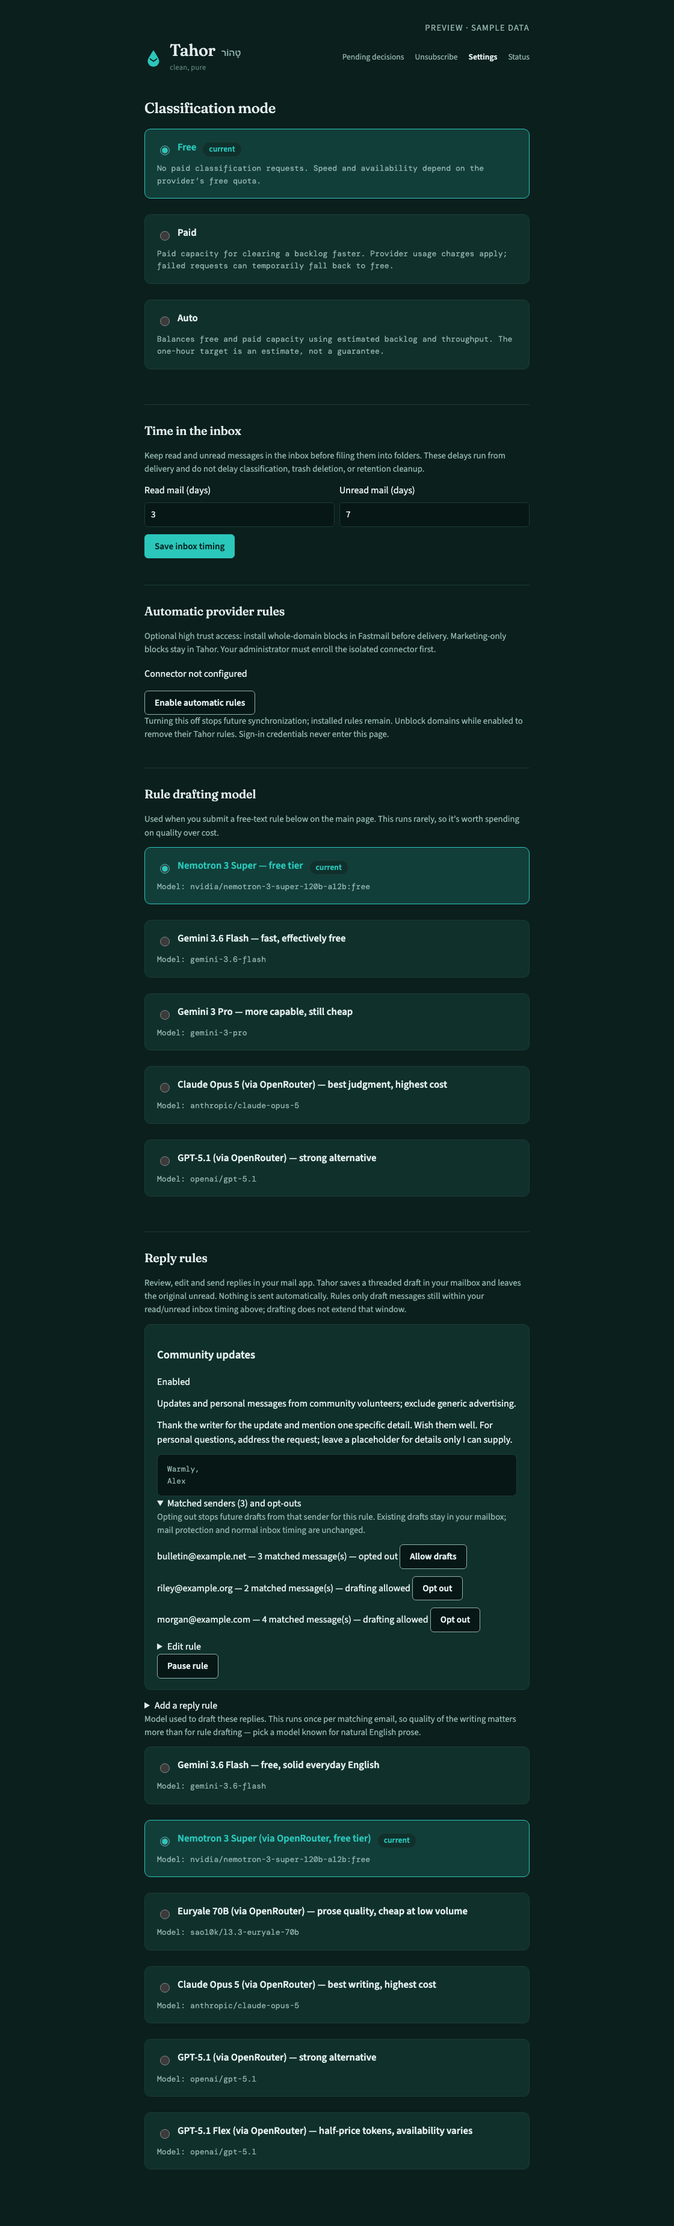
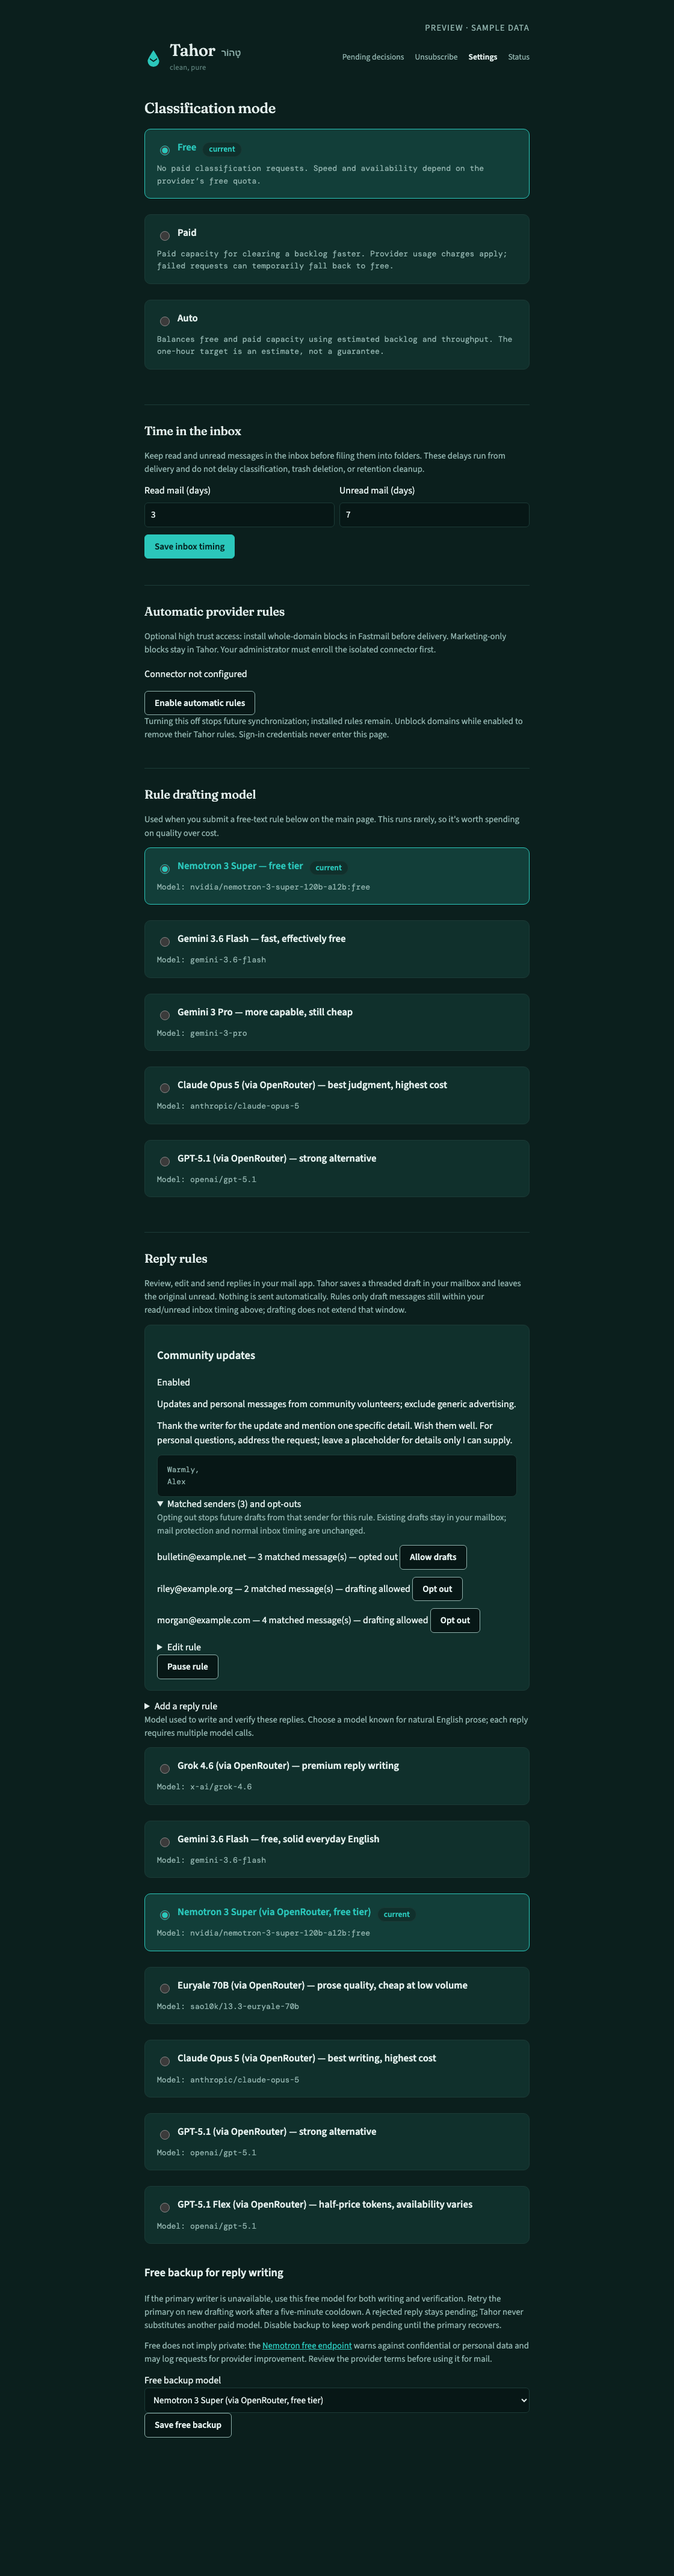
docs: explain reply fallback and provider data choices

Changed region(s): [[0.2188, 0.0, 0.7812, 0.9635]]

diff --git a/scripts/capture_screenshots.py b/scripts/capture_screenshots.py
@@ -27,14 +27,16 @@ def main():
         settings = (temporary / 'pages/settings.html').read_text()
         focus_style = '''<style>
 main > section:not(:has(#reply-rules)), main > h1, main > form,
-main > p:not(:first-child), section:has(#reply-rules) > form:last-child,
+main > p:not(:first-child), section:has(#reply-rules) > form,
+section:has(#reply-rules) > h3, section:has(#reply-rules) > p:not(:first-of-type),
 section:has(#reply-rules) > details + p { display: none; }
 section:has(#reply-rules) { margin-top: 0; padding-top: 0; border-top: 0; }
 </style>'''
         (temporary / 'pages/reply-rules.html').write_text(settings.replace('</head>', focus_style+'</head>'))
+        settings_height = 3300 + 140 * settings.count('name="reply_model"')
         output = ROOT / 'docs/screenshots'
         output.mkdir(parents=True, exist_ok=True)
-        for page, filename, height in [('index', 'decisions', 1080), ('unsubscribe', 'subscriptions', 1080), ('settings', 'settings', 3700), ('reply-rules', 'reply-rules', 1000), ('status', 'status', 850)]:
+        for page, filename, height in [('index', 'decisions', 1080), ('unsubscribe', 'subscriptions', 1080), ('settings', 'settings', settings_height), ('reply-rules', 'reply-rules', 1000), ('status', 'status', 850)]:
             shot = temporary / (filename + '.png')
             process = subprocess.Popen([args.chrome, '--headless', '--disable-gpu', '--no-first-run', '--no-default-browser-check', '--disable-background-networking', '--hide-scrollbars', '--user-data-dir=' + str(temporary / ('profile-' + filename)), '--window-size=1120,' + str(height), '--screenshot=' + str(shot), '--virtual-time-budget=3000', (temporary / 'pages' / (page + '.html')).as_uri()], stdout=subprocess.DEVNULL, stderr=subprocess.DEVNULL, start_new_session=True)
             try:

diff --git a/docs/operations.md b/docs/operations.md
@@ -79,10 +79,43 @@ and the fresh-install writing default remains free.
 
 The verifier also identifies personal questions or requests needing the owner's
 answer. Those messages receive `needs-attention` before the draft is saved, and
-that decision persists across append retries. Routine newsletters do not receive
+that decision persists across append retries. A draft containing an owner-fillable
+`[please add ...]` placeholder also receives that flag even if the model misses
+the need for attention. Routine newsletters do not receive
 this extra hold, so ordinary inbox timing still applies. Cached text prepared
 before verification was introduced is regenerated and checked before any new
 append; an already existing draft is reconciled without being rewritten.
+
+### Free backup and automatic recovery
+
+Choose the **Free backup for reply writing** model in Settings. Only explicitly
+free OpenRouter variants are accepted as backups; a paid model or a provider's
+promotional quota cannot be selected here. Choose **Disabled — keep replies
+pending** (`reply_backup_model: "none"`) to wait for primary recovery without
+calling any backup. Writer and verifier use the same
+backend for a given attempt. Defaults keep both primary and backup free.
+
+Review provider data-handling terms before sending mail. The
+[Nemotron free endpoint](https://openrouter.ai/nvidia/nemotron-3-super-120b-a12b:free)
+warns against confidential or personal information and may log requests for
+provider improvement. A zero-price endpoint is not necessarily appropriate for
+private correspondence; disable fallback when its terms do not fit your data.
+
+Credit, authentication, quota, connection, and backend-response failures record
+a five-minute cooldown in the private `reply_backend_state.json` next to the
+database. While the primary is cooling down, new drafting work tries the free
+backup. After cooldown, the next queued request probes the primary again; a
+successful verified reply clears its hold. A failing free backup is also given
+a bounded cooldown. Restarts preserve these holds. There is no fallback to a
+different paid model, including when a requested Flex tier is unavailable.
+
+Content rejection is distinct from a provider outage: unsupported facts or a
+failed instruction check never become a successful draft just because fallback
+is available. If both providers fail, the source remains available for retry and
+an empty `preparing` journal entry makes the pending work visible to daily
+summaries. The journal is created before model requests; text is stored only after
+verification. New drafts still require the source to remain within normal inbox
+age limits.
 
 ## Failure and recovery
 

diff --git a/README.md b/README.md
@@ -116,12 +116,20 @@ milestone, while answering personal questions according to their actual content.
 Expand the rule’s matched-sender list to opt individual senders out.
 
 Tahor saves a threaded reply in your mailbox’s **Drafts** folder and leaves the
-original unread. A separate check with your selected writing model verifies the
+original unread. A separate check with your selected writing model reviews the
 reply against the source and your instructions; a rejected reply is revised once
-and checked again. Unverified text is not added to Drafts. Personal questions
+and checked again. Rejected text is not added to Drafts. Model checks can still
+miss mistakes; review every reply before sending. Personal questions
 that need your answer also receive an attention flag. Edit and send it in your
 usual email client; there is no separate
-web draft editor and **Tahor never sends these replies automatically**. A reply
+web draft editor and **Tahor never sends these replies automatically**. Select a
+free backup writer in Settings: provider or credit failures switch both writing
+and verification to that free model, then retry your primary on later work after
+a five-minute cooldown. A failed quality check still leaves the reply pending. Choose
+**Disabled — keep replies pending** if no free provider has suitable data terms.
+The [Nemotron free endpoint](https://openrouter.ai/nvidia/nemotron-3-super-120b-a12b:free)
+warns against confidential or personal data and may log requests for provider
+improvement; free pricing is not a privacy guarantee. A reply
 address must pass syntax and DNS checks. Those checks cannot prove that the
 recipient’s mailbox accepts delivery.
 
@@ -260,7 +268,8 @@ small deployment: one mailbox owner and one host, with SQLite and local file loc
   grants it full account-login authority; Fastmail's unpublished interface can change.
 - **Hosted models receive mail content.** Classification sends sender, subject,
   date, and a body excerpt (up to 6,000 characters with natural-language reply
-  rules). Reply drafting sends a longer excerpt and your writing instructions. Rule
+  rules). Reply drafting and verification send a longer excerpt, your mailbox identity,
+  signature, and writing instructions. Rule
   drafting sends the instruction and current routing/prompt configuration.
 
 Retention defaults are seven days for transient mail and three years for standard
